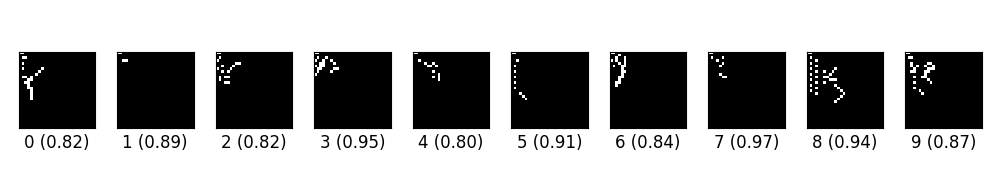
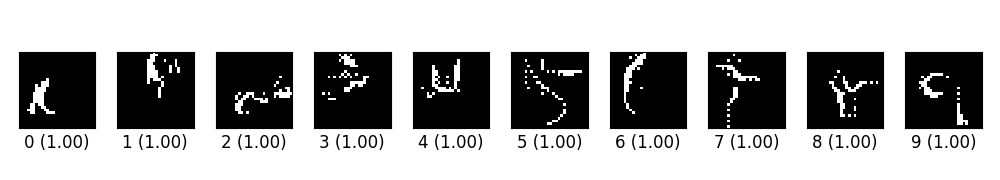
update tf ex_03 example and result

diff --git a/tf_example/ex_03.py b/tf_example/ex_03.py
@@ -107,8 +107,8 @@ env.optim = tf.train.AdamOptimizer().minimize(env.loss)
 # Note the reuse=True flag
 with tf.variable_scope('model', reuse=True):
     env.target = tf.placeholder(tf.int32, ())
-    env.x_adv = smda(model, env.x, env.target, epochs=0.1,
-                     min_proba=0.8)
+    env.x_adv = smda(model, env.x, env.target, eps=1.0, epochs=50,
+                     min_proba=1.1)
 
 # --------------------------------------------------------------------
 
